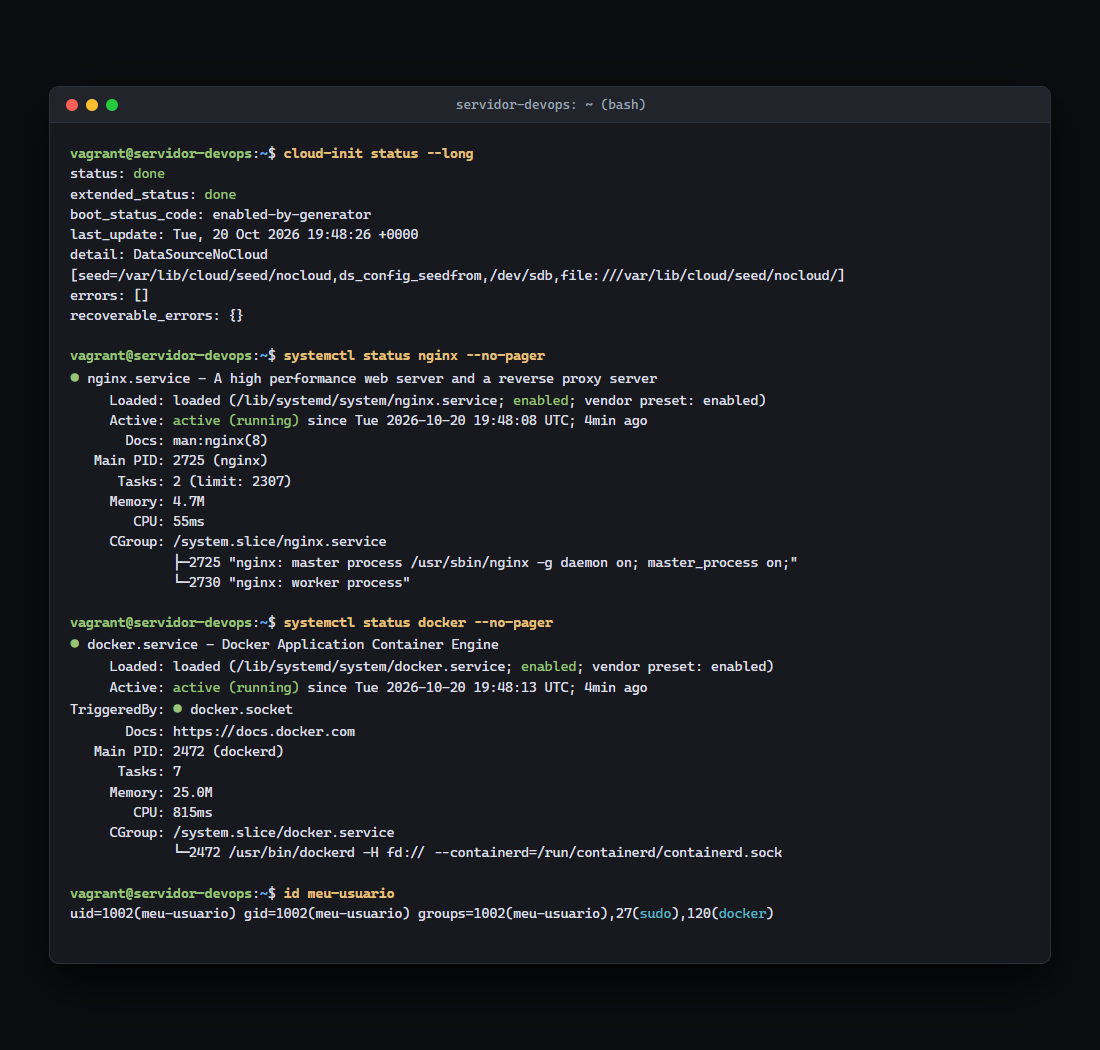
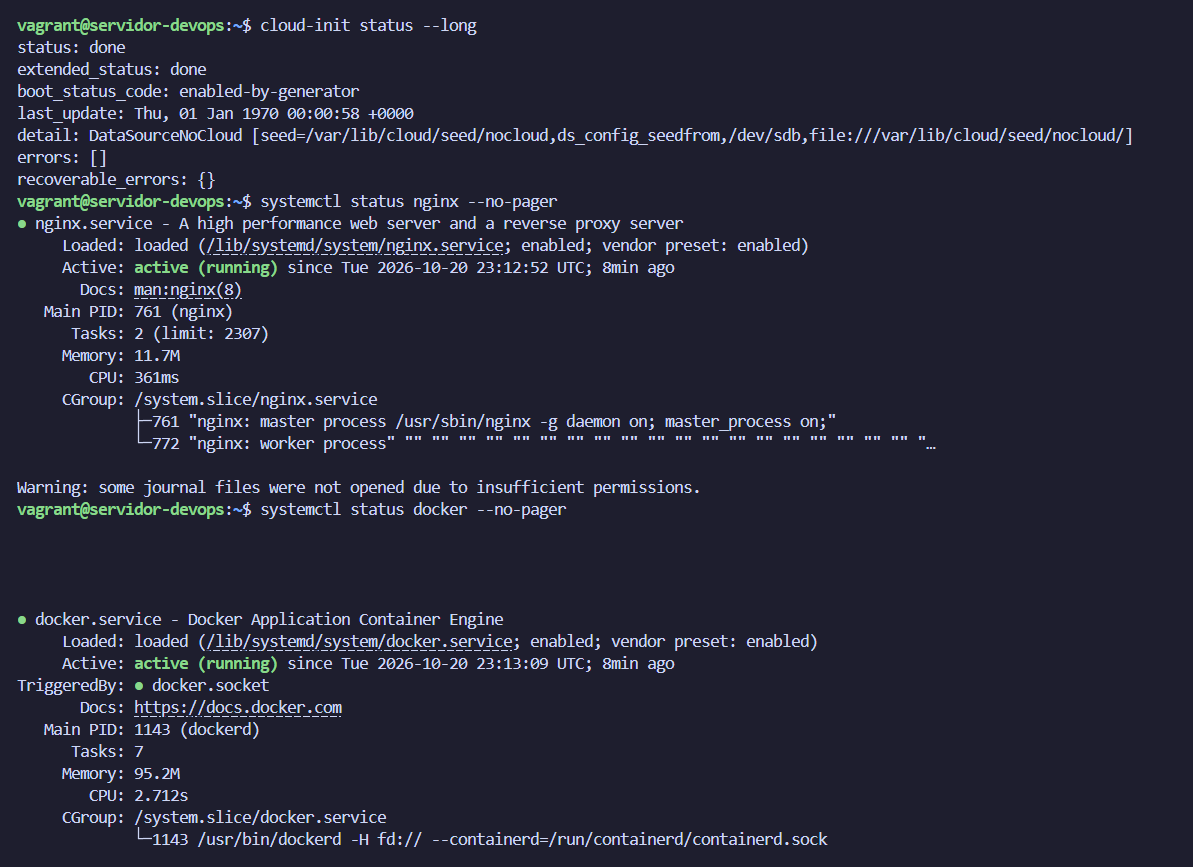
feat: implementa configuracao cloud-init, nginx, docker e evidencias

diff --git a/evidencias/EVIDENCIAS.md b/evidencias/EVIDENCIAS.md
@@ -1,62 +1,42 @@
 # Evidências da Atividade: Cloud-Init (DevOps)
 
-Validação realizada em 20 de outubro de 2026.
-
-## 1. Resumo do Provisionamento
-
-A infraestrutura foi automatizada utilizando o **Cloud-Init** com a fonte de metadados local `DataSourceNoCloud`. O arquivo `user-data` configurou:
-- Atualização do índice de repositórios do sistema (`package_update: true`);
-- Criação declarativa do usuário administrador `meu-usuario` com permissões `sudo` sem senha (`NOPASSWD: ALL`) e chave pública OpenSSH (`ed25519`);
-- Instalação dos pacotes essenciais `docker.io` e `nginx` pelo gerenciador APT;
-- Publicação de página HTML personalizada em `/var/www/html/index.html` com o módulo `write_files`;
-- Ativação imediata e habilitação no boot dos serviços Nginx e Docker via `runcmd`;
-- Inclusão do usuário `meu-usuario` no grupo `docker` via `runcmd`;
-- Emissão de mensagem conclusiva `final_message` nos logs do sistema.
+Evidências de validação do ambiente provisionado automaticamente com Cloud-Init e Vagrant.
 
 ---
 
-## 2. Status do Cloud-Init e Serviços
+## 1. Serviços Ativos, Usuário e Cloud-Init
 
-O Cloud-Init concluiu a execução com status `done` e sem nenhum erro. Os serviços Nginx e Docker estão ativos (`running`) e habilitados no systemd.
+Verificação da conclusão do Cloud-Init (`status: done`) e dos serviços **Nginx** e **Docker** ativos e habilitados:
 
-![Status dos Serviços e Cloud-Init](01-servicos-ativos.png)
+- `cloud-init status --long`
+- `systemctl status nginx`
+- `systemctl status docker`
+- `id meu-usuario`
 
-Os registros detalhados de logs podem ser conferidos em:
-- [01-cloud-init.txt](01-cloud-init.txt)
-- [03-servicos-e-docker.txt](03-servicos-e-docker.txt)
+![Serviços Ativos e Status do Cloud-Init](01-servicos-ativos.png)
 
 ---
 
-## 3. Usuário Administrador e Chave SSH
+## 2. Acesso SSH com Chave Pública e Permissões Administrativas
 
-A chave SSH do tipo `ed25519` foi gerada no Windows com o comando `ssh-keygen`:
-- **Chave Privada:** mantida com segurança em `%USERPROFILE%\.ssh\id_ed25519` (não exposta no repositório);
-- **Chave Pública:** declarada no campo `ssh_authorized_keys` do `user-data`.
+Acesso SSH realizado a partir do Windows usando o par de chaves OpenSSH Ed25519 (`id_ed25519`):
 
-A autenticação SSH via Windows PowerShell foi validada com sucesso:
+- **Autenticação:** Chave privada preservada no host cliente e chave pública injetada pelo Cloud-Init em `~/.ssh/authorized_keys`.
+- **Privilégios:** Usuário `meu-usuario` com permissão total via `sudo` sem necessidade de senha (`NOPASSWD: ALL`).
+- **Grupo Docker:** Usuário adicionado ao grupo `docker` via `runcmd`, permitindo executar containers sem `sudo`.
 
 ```powershell
-ssh -i "$HOME\.ssh\id_ed25519" -o StrictHostKeyChecking=no -p 2222 meu-usuario@127.0.0.1 "whoami; sudo whoami; docker ps"
+ssh -i "$HOME\.ssh\id_ed25519" -p 2222 meu-usuario@127.0.0.1 "whoami; sudo whoami; docker ps"
 ```
 
-Saída observada:
-```text
-meu-usuario
-root
-CONTAINER ID   IMAGE     COMMAND   CREATED   STATUS    PORTS     NAMES
-```
-
-O arquivo de evidências do usuário está em [02-usuario-e-ssh.txt](02-usuario-e-ssh.txt).
+![Usuário Administrador e Acesso SSH](02-usuario-ssh.png)
 
 ---
 
-## 4. Página Web Personalizada
+## 3. Página Web Personalizada em Execução
 
-A página HTML foi servida pelo Nginx a partir do caminho `/var/www/html/index.html`, possuindo permissões `0644` e proprietário `www-data:www-data`.
+Página HTML servida pelo **Nginx** a partir do diretório `/var/www/html/index.html` (criada através do módulo `write_files` do Cloud-Init):
 
-Como a porta `8080` do host já se encontrava ocupada por uma aplicação Java pré-existente no Windows, o mecanismo `auto_correct: true` do Vagrant encaminhou automaticamente o tráfego da porta guest `80` para a porta host `2200`. Além disso, a página está acessível pelo IP da rede privada `192.168.56.10`.
+![Página Web Personalizada](02-pagina-web.png)
 
-![Página Web Personalizada em Execução](02-pagina-web.png)
-
-A validação das requisições HTTP e headers está registrada em [04-validacao-web.txt](04-validacao-web.txt).
-
+*Acesso verificado pela porta encaminhada no Vagrantfile e pela interface de rede privada.*

diff --git a/README.md b/README.md
@@ -32,12 +32,9 @@ Cloud-Init/
 ├── user-data                 # Arquivo de configuração cloud-config
 ├── README.md                 # Documentação do projeto
 └── evidencias/               # Evidências e capturas de tela dos testes
-    ├── 01-cloud-init.txt
     ├── 01-servicos-ativos.png
+    ├── 02-usuario-ssh.png
     ├── 02-pagina-web.png
-    ├── 02-usuario-e-ssh.txt
-    ├── 03-servicos-e-docker.txt
-    ├── 04-validacao-web.txt
     └── EVIDENCIAS.md
 ```
 
